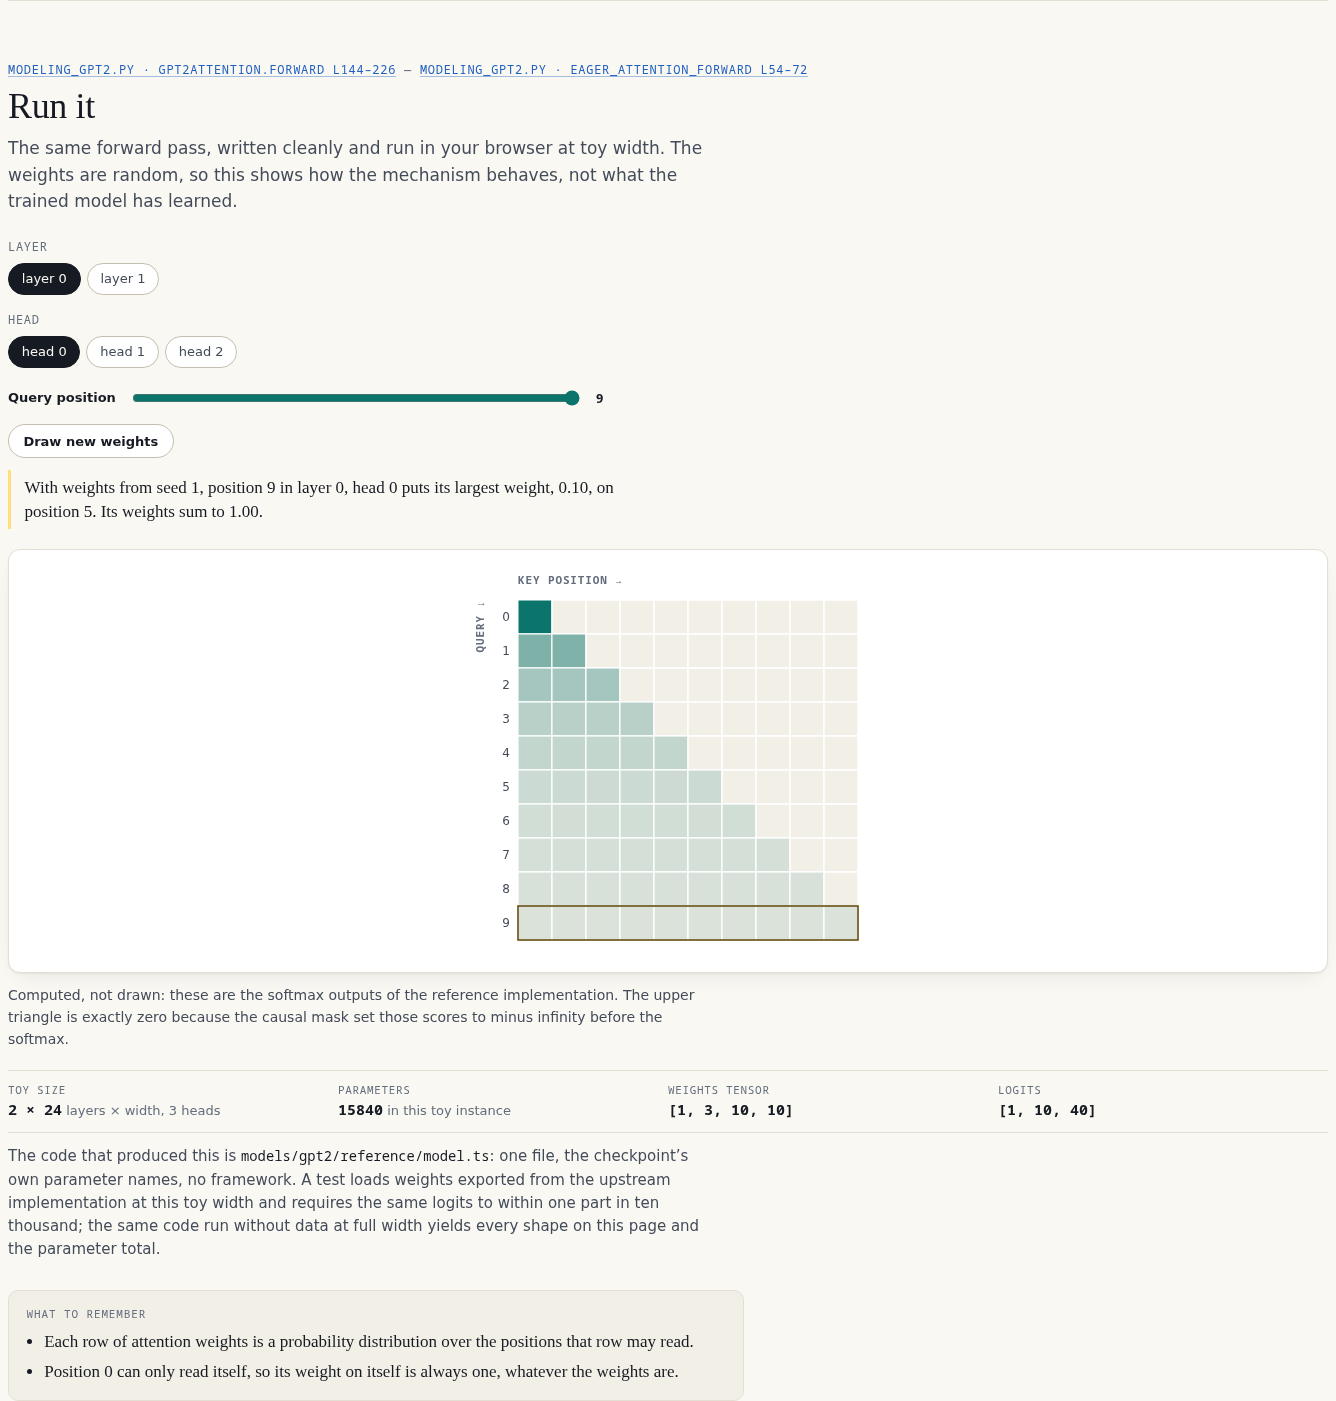
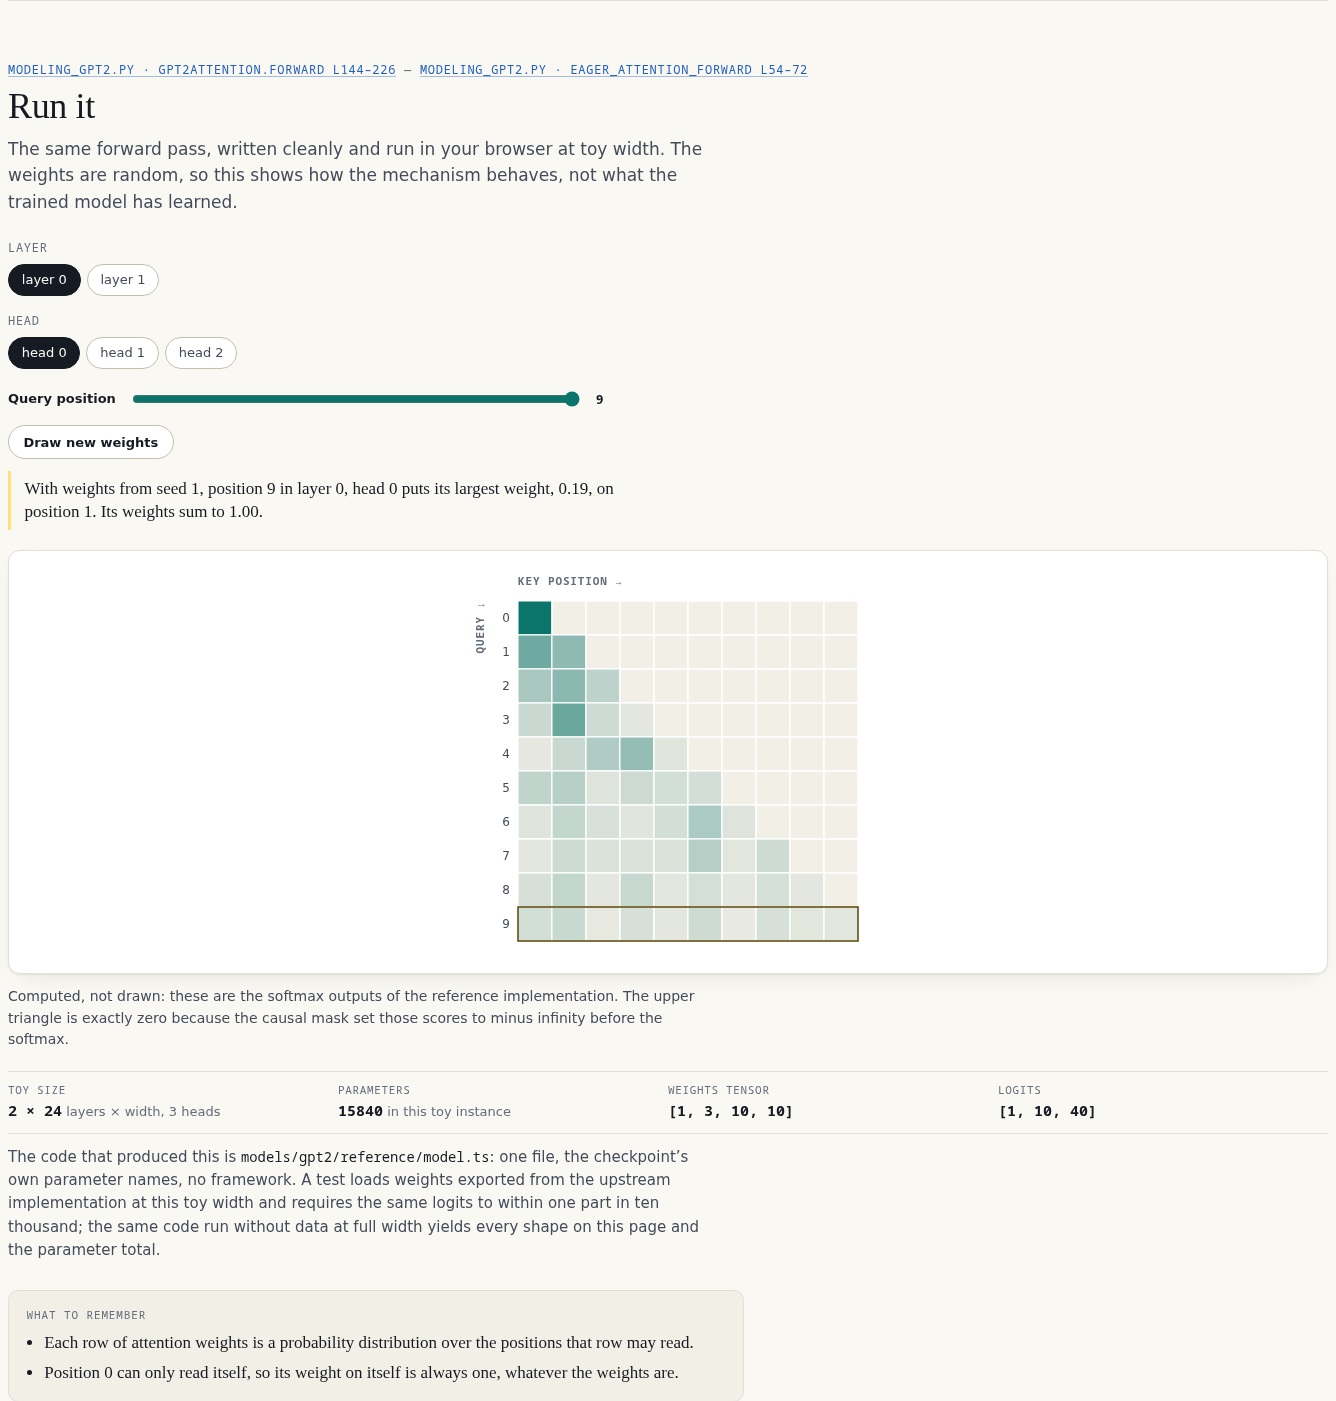
schematics: seeded-weight gain for toy runs; ask for model-specific experiments

diff --git a/schematics/models/gpt2/sections/Run.tsx b/schematics/models/gpt2/sections/Run.tsx
@@ -29,7 +29,7 @@ const TOY: Gpt2Config = {
 };
 const LAYERS = Array.from({ length: f.TOY.layers }, (_unused, index) => String(index));
 const HEADS = Array.from({ length: f.TOY.heads }, (_unused, index) => String(index));
-const LAYOUT = { seedMax: 999, idStride: 7 };
+const LAYOUT = { seedMax: 999, idStride: 7, gain: 4 };
 
 export function Run() {
   const [seed, setSeed] = useUrlNumber("runSeed", 1, 0, LAYOUT.seedMax);
@@ -38,7 +38,7 @@ export function Run() {
   const [query, setQuery] = useUrlNumber("runQ", f.TOY.tokens - 1, 0, f.TOY.tokens - 1);
 
   // The clean reference, run here in the browser: seeded weights, seeded token ids.
-  const ctx = new ref.Ctx("value", null, seed);
+  const ctx = new ref.Ctx("value", null, seed, LAYOUT.gain);
   const ids = [
     Array.from({ length: f.TOY.tokens }, (_unused, index) => (index * LAYOUT.idStride + seed) % f.TOY.vocab),
   ];

diff --git a/schematics/kit/ref/tensor.ts b/schematics/kit/ref/tensor.ts
@@ -55,6 +55,8 @@ export class Ctx {
     readonly mode: "shape" | "value",
     private readonly weights: Weights | null = null,
     seed = 0,
+    /** Spread of seeded weights. Raise it when a toy run looks uniform (attention near 1/n everywhere). */
+    private readonly gain = 1,
   ) {
     this.random = rng(seed);
   }
@@ -82,7 +84,7 @@ export class Ctx {
     if (this.weights !== null) {
       fail(`weights have no tensor named ${name}`);
     }
-    const scale = 1 / Math.sqrt(shape[shape.length - 1]);
+    const scale = this.gain / Math.sqrt(shape[shape.length - 1]);
     return tensor(
       shape,
       Array.from({ length: size(shape) }, () => (this.random() * 2 - 1) * scale),

diff --git a/schematics/skill/model-schematic/references/reference-implementation.md b/schematics/skill/model-schematic/references/reference-implementation.md
@@ -80,6 +80,15 @@ is unverified and why.
   weights (`new ref.Ctx("value", null, seed)`) and shows something computed: attention
   weights as a `Heatmap`, router scores and the experts actually chosen, the norm of
   the stream after each layer. Give it controls (layer, head, seed, a position).
+- **Show what is distinctive about this model**, not the experiment the worked example
+  happens to use. GPT-2's page shows a causal attention heatmap because that is all
+  GPT-2 has. A grouped-query model should show keys shared across query heads; a
+  latent-attention model the latent that is cached against the keys rebuilt from it; a
+  mixture-of-experts model which experts each token of a toy sequence is sent to and
+  with what weights; a sliding-window or sparse model the keys actually reached.
+  Write your own sentence and takeaways about what your figure shows.
+- Seeded weights can make a toy run look uniform. Pass a `gain` to `ref.Ctx` (GPT-2
+  uses 4) until the figure has visible structure.
 - Say plainly that the weights are random: the experiment shows how the mechanism
   behaves, never what the trained model does.
 - Prefer computed values over synthetic ones everywhere: a router demo should run the
